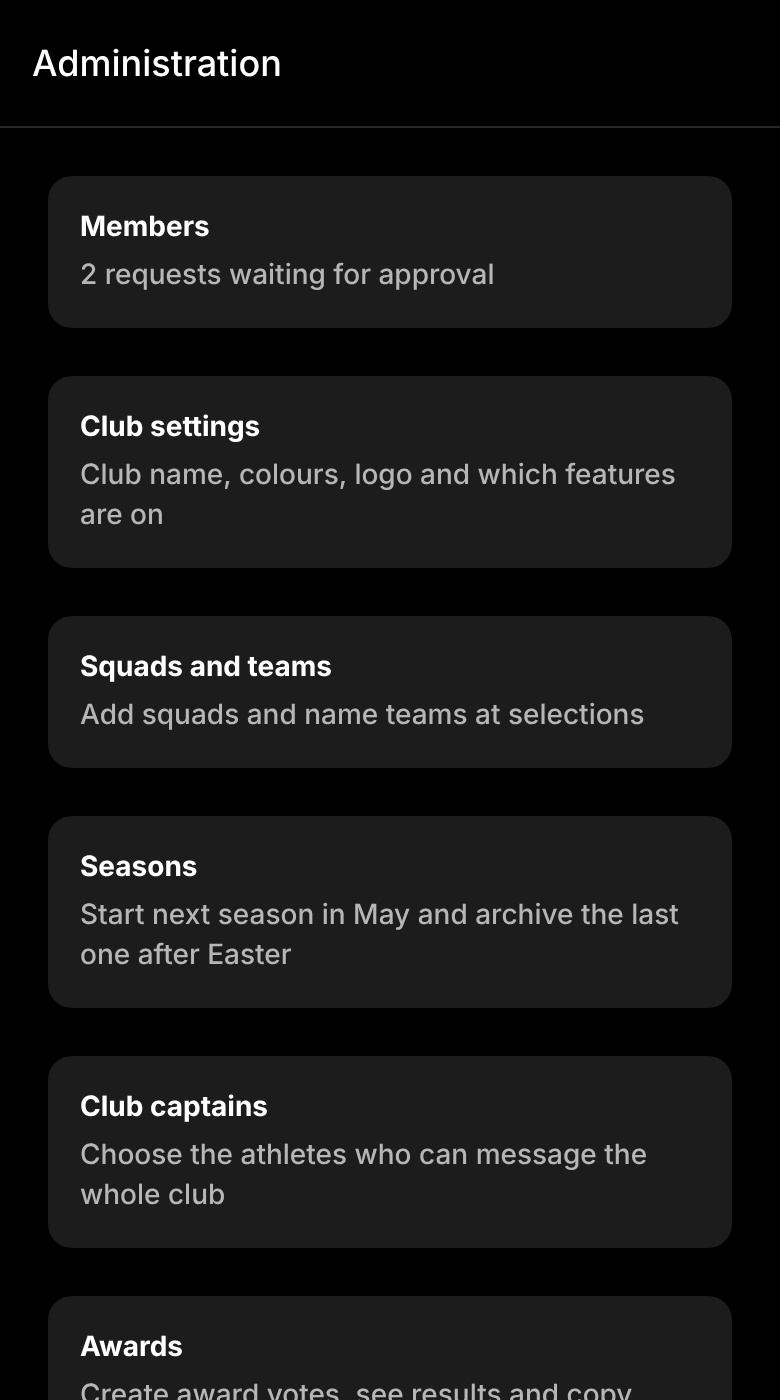
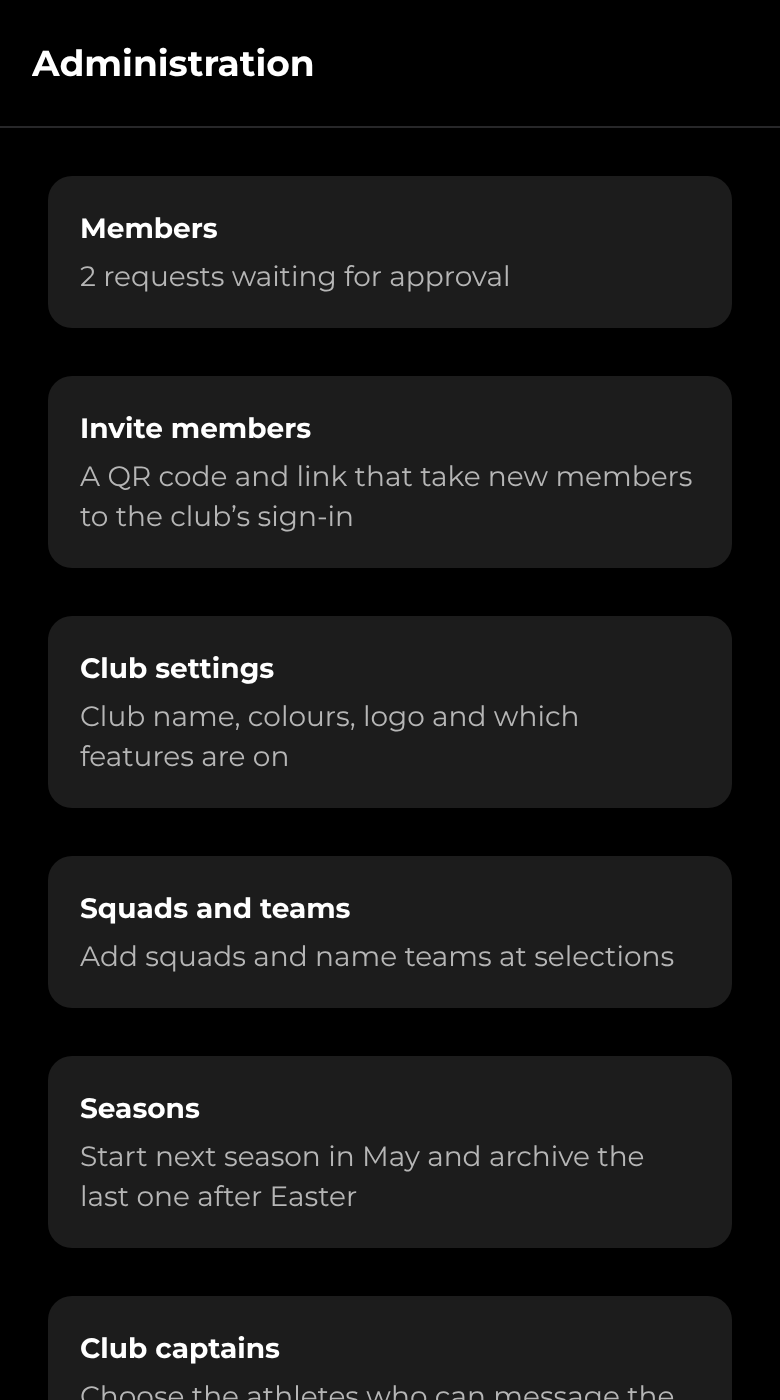
Invite members with a QR code, and switch between your clubs
Administration > Invite members shows the club's QR code, club code and
join link, with Share and Copy. The club code box is empty, Find your
club lists the clubs picked on this phone before, and Delete account
names the club and says other clubs aren't affected.

Claude-Session: https://claude.ai/code/session_01MTSu22TXhbz6NbSs4fceBo

diff --git a/src/app/admin/invite.tsx b/src/app/admin/invite.tsx
@@ -1,0 +1,100 @@
+import * as Clipboard from 'expo-clipboard';
+import Constants, { ExecutionEnvironment } from 'expo-constants';
+import { Image } from 'expo-image';
+import * as Linking from 'expo-linking';
+import createQrCode from 'qrcode-generator';
+import { useMemo, useState } from 'react';
+import { Share, StyleSheet, View } from 'react-native';
+
+import { Screen } from '@/components/screen';
+import { ThemedText } from '@/components/themed-text';
+import { Button, Card } from '@/components/ui';
+import { Spacing } from '@/constants/theme';
+import { useClub } from '@/lib/club';
+import { useClubChoice } from '@/lib/club-choice';
+
+/** A QR code as an image: black squares on white, with a quiet border so cameras find it. */
+function qrImage(text: string) {
+  const code = createQrCode(0, 'M');
+  code.addData(text);
+  code.make();
+  return code.createDataURL(8, 4);
+}
+
+/**
+ * firstpasshq://club/CODE, which opens the installed app on that club. Expo Go
+ * can only open its own exp:// addresses, so there it's one of those.
+ */
+function joinLink(code: string) {
+  if (Constants.executionEnvironment === ExecutionEnvironment.StoreClient) {
+    return Linking.createURL(`club/${code}`);
+  }
+  return `${Constants.expoConfig?.scheme ?? 'firstpasshq'}://club/${code}`;
+}
+
+/**
+ * The club's join link and QR code, for admins to share. Scanning or opening it
+ * picks this club in the app, so new members go straight to its sign-in.
+ */
+export default function InviteScreen() {
+  const { club: chosen } = useClubChoice();
+  const club = useClub();
+  const [copied, setCopied] = useState(false);
+  const code = chosen?.code ?? '';
+  const link = joinLink(code);
+  const qr = useMemo(() => qrImage(link), [link]);
+  const message =
+    `Join ${club.name} on FirstPass HQ. Install the FirstPass HQ app, then open ${link} ` +
+    `or enter the club code ${code}.`;
+
+  return (
+    <Screen>
+      <ThemedText type="small" themeColor="textSecondary">
+        New members scan this code with their phone’s camera, or open the link, and the app takes
+        them to {club.name}’s sign-in. They still ask to join, with the club password if there is
+        one, and an admin approves them.
+      </ThemedText>
+
+      <View style={styles.qrFrame}>
+        <Image
+          source={{ uri: qr }}
+          style={styles.qr}
+          contentFit="contain"
+          accessibilityLabel={`QR code for ${club.name}`}
+        />
+      </View>
+
+      <Card>
+        <ThemedText type="small" themeColor="textSecondary">
+          Club code
+        </ThemedText>
+        <ThemedText type="subtitle" selectable>
+          {code}
+        </ThemedText>
+        <ThemedText type="small" themeColor="textSecondary" selectable>
+          {link}
+        </ThemedText>
+      </Card>
+
+      <Button title="Share invite" onPress={() => Share.share({ message })} />
+      <Button
+        title={copied ? 'Link copied' : 'Copy link'}
+        variant="secondary"
+        onPress={() => Clipboard.setStringAsync(link).then(() => setCopied(true))}
+      />
+    </Screen>
+  );
+}
+
+const styles = StyleSheet.create({
+  qrFrame: {
+    alignSelf: 'center',
+    backgroundColor: '#FFFFFF',
+    borderRadius: 12,
+    padding: Spacing.two,
+  },
+  qr: {
+    width: 240,
+    height: 240,
+  },
+});

diff --git a/src/lib/club-choice.tsx b/src/lib/club-choice.tsx
@@ -10,6 +10,8 @@ type ClubChoice = {
   ready: boolean;
   /** The club this device is connected to, or null until someone picks one. */
   club: ClubEntry | null;
+  /** Clubs picked on this device before, most recent first, for one-tap switching. */
+  recent: ClubEntry[];
   /** Connects to the club with this code. False when no club has it. */
   choose: (code: string) => boolean;
   /** Goes back to the club code screen. Every club's sign-in stays saved. */
@@ -17,6 +19,7 @@ type ClubChoice = {
 };
 
 const CHOICE_KEY = 'club-code';
+const RECENT_KEY = 'club-codes-used';
 const ClubChoiceContext = createContext<ClubChoice | null>(null);
 
 // AsyncStorage is unavailable during static web rendering.
@@ -28,20 +31,23 @@ const canStore = Platform.OS !== 'web' || typeof window !== 'undefined';
  */
 export function ClubChoiceProvider({ children }: { children: ReactNode }) {
   const [club, setClub] = useState<ClubEntry | null>(null);
+  const [recent, setRecent] = useState<ClubEntry[]>([]);
   const [ready, setReady] = useState(!canStore);
 
   useEffect(() => {
     if (!canStore) return;
     let cancelled = false;
-    AsyncStorage.getItem(CHOICE_KEY)
-      .catch(() => null)
-      .then((saved) => {
+    AsyncStorage.multiGet([CHOICE_KEY, RECENT_KEY])
+      .catch(() => [] as [string, string | null][])
+      .then((pairs) => {
         if (cancelled) return;
-        const found = findClub(saved);
+        const saved = new Map(pairs);
+        const found = findClub(saved.get(CHOICE_KEY));
         if (found) {
           connectToClub(found);
           setClub(found);
         }
+        setRecent(parseRecent(saved.get(RECENT_KEY)));
         setReady(true);
       });
     return () => {
@@ -54,7 +60,16 @@ export function ClubChoiceProvider({ children }: { children: ReactNode }) {
     if (!found) return false;
     connectToClub(found);
     setClub(found);
-    if (canStore) AsyncStorage.setItem(CHOICE_KEY, found.code).catch(() => {});
+    setRecent((current) => {
+      const next = [found, ...current.filter((c) => c.code !== found.code)];
+      if (canStore) {
+        AsyncStorage.multiSet([
+          [CHOICE_KEY, found.code],
+          [RECENT_KEY, JSON.stringify(next.map((c) => c.code))],
+        ]).catch(() => {});
+      }
+      return next;
+    });
     return true;
   }, []);
 
@@ -64,10 +79,21 @@ export function ClubChoiceProvider({ children }: { children: ReactNode }) {
   }, []);
 
   return (
-    <ClubChoiceContext value={{ ready, club, choose, switchClub }}>
+    <ClubChoiceContext value={{ ready, club, recent, choose, switchClub }}>
       {children}
     </ClubChoiceContext>
   );
+}
+
+/** Saved codes, keeping only clubs the app still knows. */
+function parseRecent(saved: string | null | undefined): ClubEntry[] {
+  try {
+    const codes = JSON.parse(saved ?? '[]') as unknown;
+    if (!Array.isArray(codes)) return [];
+    return codes.map((code) => findClub(String(code))).filter((c): c is ClubEntry => !!c);
+  } catch {
+    return [];
+  }
 }
 
 export function useClubChoice() {

diff --git a/src/app/choose-club.tsx b/src/app/choose-club.tsx
@@ -4,7 +4,7 @@ import { StyleSheet, View } from 'react-native';
 
 import { Screen } from '@/components/screen';
 import { ThemedText } from '@/components/themed-text';
-import { Button, Card, ErrorText, TextField } from '@/components/ui';
+import { Button, Card, ErrorText, PressableCard, TextField } from '@/components/ui';
 import { findClub } from '@/constants/clubs';
 import { Spacing } from '@/constants/theme';
 import { useTheme } from '@/hooks/use-theme';
@@ -18,7 +18,7 @@ import { useClubChoice } from '@/lib/club-choice';
  */
 export default function ChooseClubScreen() {
   const theme = useTheme();
-  const { choose } = useClubChoice();
+  const { choose, recent } = useClubChoice();
   const [code, setCode] = useState('');
   const [error, setError] = useState<string | null>(null);
   const club = findClub(code);
@@ -42,9 +42,26 @@ export default function ChooseClubScreen() {
           Find your club
         </ThemedText>
         <ThemedText type="small" themeColor="textSecondary" style={styles.centred}>
-          Your club gives you its club code, or a link that fills it in.
+          Enter the code your club gave you. A club’s QR code or link fills it in for you.
         </ThemedText>
       </View>
+
+      {recent.length > 0 ? (
+        <View style={styles.recent}>
+          <ThemedText type="smallBold">Your clubs</ThemedText>
+          {recent.map((c) => (
+            <PressableCard key={c.code} onPress={() => choose(c.code)}>
+              <ThemedText type="smallBold">{c.name}</ThemedText>
+              <ThemedText type="small" themeColor="textSecondary">
+                {c.code}
+              </ThemedText>
+            </PressableCard>
+          ))}
+          <ThemedText type="smallBold" style={styles.another}>
+            Another club
+          </ThemedText>
+        </View>
+      ) : null}
 
       <TextField
         label="Club code"
@@ -54,7 +71,7 @@ export default function ChooseClubScreen() {
           setError(null);
         }}
         onSubmitEditing={handleContinue}
-        placeholder="For example THUNDER"
+        accessibilityLabel="Club code"
         autoCapitalize="characters"
         autoCorrect={false}
         autoComplete="off"
@@ -90,6 +107,12 @@ const styles = StyleSheet.create({
     height: 49,
     alignSelf: 'center',
     marginBottom: Spacing.three,
+  },
+  recent: {
+    gap: Spacing.two,
+  },
+  another: {
+    marginTop: Spacing.three,
   },
   centred: {
     textAlign: 'center',

diff --git a/src/app/delete-account.tsx b/src/app/delete-account.tsx
@@ -28,7 +28,7 @@ export default function DeleteAccountScreen() {
 
   return (
     <Screen>
-      <ThemedText type="smallBold">Delete your account</ThemedText>
+      <ThemedText type="smallBold">Delete your {club.name} account</ThemedText>
       <ThemedText type="small" themeColor="textSecondary">
         This permanently deletes your {club.name} app account: your profile, your squad and
         team places, guardian links and your messages inbox. Messages you sent to a group stay with
@@ -39,8 +39,8 @@ export default function DeleteAccountScreen() {
         where only the committee and admins can see them, and then deletes them.
       </ThemedText>
       <ThemedText type="small" themeColor="textSecondary">
-        It doesn’t change your PlayHQ registration or club membership. If you sign in again later,
-        you’ll need to ask to join again.
+        It doesn’t change your PlayHQ registration or club membership, or your account at any other
+        club in FirstPass HQ. If you sign in again later, you’ll need to ask to join again.
       </ThemedText>
       <ErrorText>{error}</ErrorText>
       <ConfirmDelete

diff --git a/src/app/_layout.tsx b/src/app/_layout.tsx
@@ -153,6 +153,7 @@ function RootStack() {
             <Stack.Screen name="admin/[id]" options={{ title: 'Member' }} />
             <Stack.Screen name="admin/club" options={{ title: 'Club settings' }} />
             <Stack.Screen name="admin/club-password" options={{ title: 'Club password' }} />
+            <Stack.Screen name="admin/invite" options={{ title: 'Invite members' }} />
             <Stack.Screen name="admin/squads" options={{ title: 'Squads and teams' }} />
             <Stack.Screen name="admin/team/[id]" options={{ title: 'Name team' }} />
             <Stack.Screen name="admin/seasons" options={{ title: 'Seasons' }} />

diff --git a/src/app/administration.tsx b/src/app/administration.tsx
@@ -27,6 +27,13 @@ export default function AdministrationScreen() {
         </ThemedText>
       </PressableCard>
 
+      <PressableCard onPress={() => router.push('/admin/invite')}>
+        <ThemedText type="smallBold">Invite members</ThemedText>
+        <ThemedText type="small" themeColor="textSecondary">
+          A QR code and link that take new members to the club’s sign-in
+        </ThemedText>
+      </PressableCard>
+
       <PressableCard onPress={() => router.push('/admin/club')}>
         <ThemedText type="smallBold">Club settings</ThemedText>
         <ThemedText type="small" themeColor="textSecondary">

diff --git a/docs/user-guide.md b/docs/user-guide.md
@@ -71,6 +71,7 @@ What each role sees on its home screen:
 | Set up awards and see results          |         |                 |              |            |               |               |         |       ✓       |
 | Import fixtures from PlayHQ            |         |                 |              |            |               |               |         |       ✓       |
 | Club name, colours, logo and features  |         |                 |              |            |               |               |         |       ✓       |
+| Invite members (QR code and link)      |         |                 |              |            |               |               |         |       ✓       |
 | Administration                         |         |                 |              |            |               |               |         |       ✓       |
 
 † Athletes who are captains: club captains can message the whole club, and squad and team
@@ -108,8 +109,9 @@ small "Powered by FirstPass" sits at the foot of the sign-in and home screens.
 FirstPass HQ is one app for several clubs, and each club keeps its own members and records
 separate from every other club. So the first time it opens, the app asks for your **club code**.
 West Coast Thunder's is `THUNDER`. Type it in, check the club's name that appears, and tap
-**Continue to West Coast Thunder**. If the club sends you a link instead, opening it fills the
-code in for you. The app remembers your club after that.
+**Continue to West Coast Thunder**. If the club gives you a QR code, scan it with your phone's
+camera instead, or open the club's invite link: either one opens the app with the club already
+picked. The app remembers your club after that.
 
 <img src="user-guide/club-code.png" width="210" alt="Find your club: the club code screen">
 
@@ -126,8 +128,11 @@ If you picked the wrong club, tap **Change club** under the button.
 
 If you're in two clubs that both use FirstPass HQ, tap **Switch club** at the foot of the home
 screen and enter the other club's code. You ask to join each club separately, and each club only
-sees what you do in that club. The app stays signed in to both, so switching back doesn't need
-another sign-in.
+sees what you do in that club. After that, **Switch club** lists **Your clubs**: tap one to go
+straight back to it. The app stays signed in to each club, so switching doesn't need another
+sign-in.
+
+<img src="user-guide/your-clubs.png" width="210" alt="Switch club: your clubs and another club's code">
 
 ### Ask to join the club
 
@@ -266,13 +271,14 @@ day or two after it.
 
 ### Deleting your account
 
-**Delete account** at the bottom of the home screen permanently deletes your app account: your
-profile, your squad and team places, guardian links and your messages inbox. Messages you sent to
+**Delete account** at the bottom of the home screen permanently deletes your account at the club
+you're in: your profile, your squad and team places, guardian links and your messages inbox. Messages you sent to
 a group stay with the people who received them.
 
 The club keeps your injury records and clearance documents for 12 months after you leave, where
 only the committee and admins can see them, and then deletes them. Deleting your account doesn't
-change your PlayHQ registration or club membership.
+change your PlayHQ registration or club membership, or your account at any other club in
+FirstPass HQ.
 
 <img src="user-guide/delete-account.png" width="210" alt="Delete account screen">
 
@@ -704,6 +710,17 @@ new join request.
 <img src="user-guide/admin-home.png" width="210" alt="Admin home screen">
 <img src="user-guide/administration.png" width="210" alt="Administration menu">
 <img src="user-guide/admin-safety-todos.png" width="210" alt="Admin to-dos for guardians, Working With Children Checks and athletes turning 18">
+
+### Inviting members
+
+**Administration > Invite members** shows the club's QR code, club code and invite link. Put the
+QR code on a screen or a printed sign at training, or tap **Share invite** to send the link and
+code by message or email (**Copy link** copies just the link). Scanning the code or opening the
+link opens FirstPass HQ with your club picked, ready to sign in. People still ask to join, with the
+[club password](#club-password) if you've set one, and you approve them as below. The password
+isn't part of the invite, so share it separately.
+
+<img src="user-guide/invite.png" width="210" alt="Invite members: QR code, club code and invite link">
 
 ### Approving members
 

diff --git a/docs/new-club-setup.md b/docs/new-club-setup.md
@@ -96,7 +96,8 @@ The admin opens **Administration > Club settings** and sets:
   off.
 
 Then, still in **Administration**: set a **Club password**, rename the **Squads and teams**, add
-**Calendars**, and approve members as they ask to join. Members join by entering the club code (or
-opening the club's link), signing in, and asking to join with the club password.
+**Calendars**, and approve members as they ask to join. **Administration > Invite members** shows
+the club's QR code, code and link to share. Members scan it or enter the code, sign in, and ask to
+join with the club password.
 
 The FirstPass HQ logo, app icon, splash screen and app name are the same for every club.
